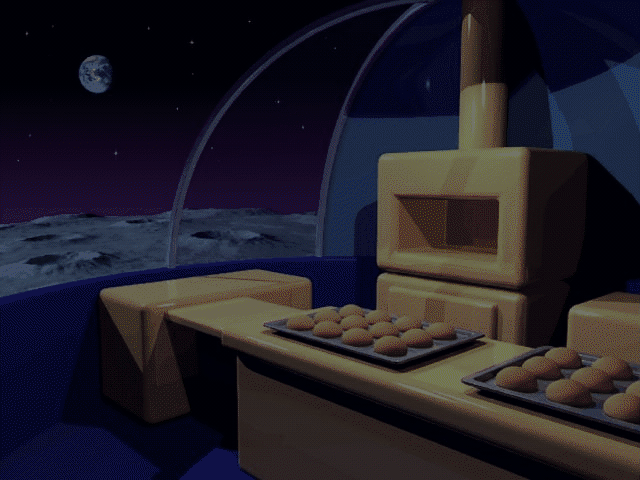
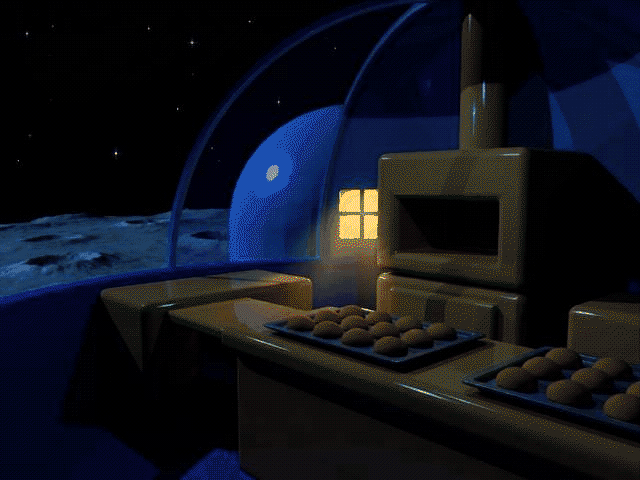
bg: renderede nat-versioner (Higgsfield i2i) for hub/bakery/landing/light/school/quarry/hall; pallock bruger natkilde i assets/unlocked når den findes

diff --git a/tools/art/pallock.py b/tools/art/pallock.py
@@ -93,6 +93,9 @@ for phase in ('dag', 'nat'):
     print(f'\n== {phase} ==')
     bg_rgb = {}
     for p in bgs:
+        # nat: en RENDERET natkilde i assets/unlocked/bg/<navn>_nat.png (Higgsfield image-to-image, 10-11) vinder over LUT-bagningen
+        natsrc = os.path.join(UNL, 'bg', os.path.basename(p)[:-4] + '_nat.png')
+        if phase == 'nat' and os.path.exists(natsrc): bg_rgb[p] = Image.open(natsrc).convert('RGB'); print(f'  natkilde: {natsrc}'); continue
         im = Image.open(source(p)).convert('RGB'); bg_rgb[p] = nightlut(im) if phase == 'nat' else im
     spr_src = sprs if phase == 'dag' else sprs_nat
     spr_rgba = {p: Image.open(source(p)).convert('RGBA') for p in spr_src}
